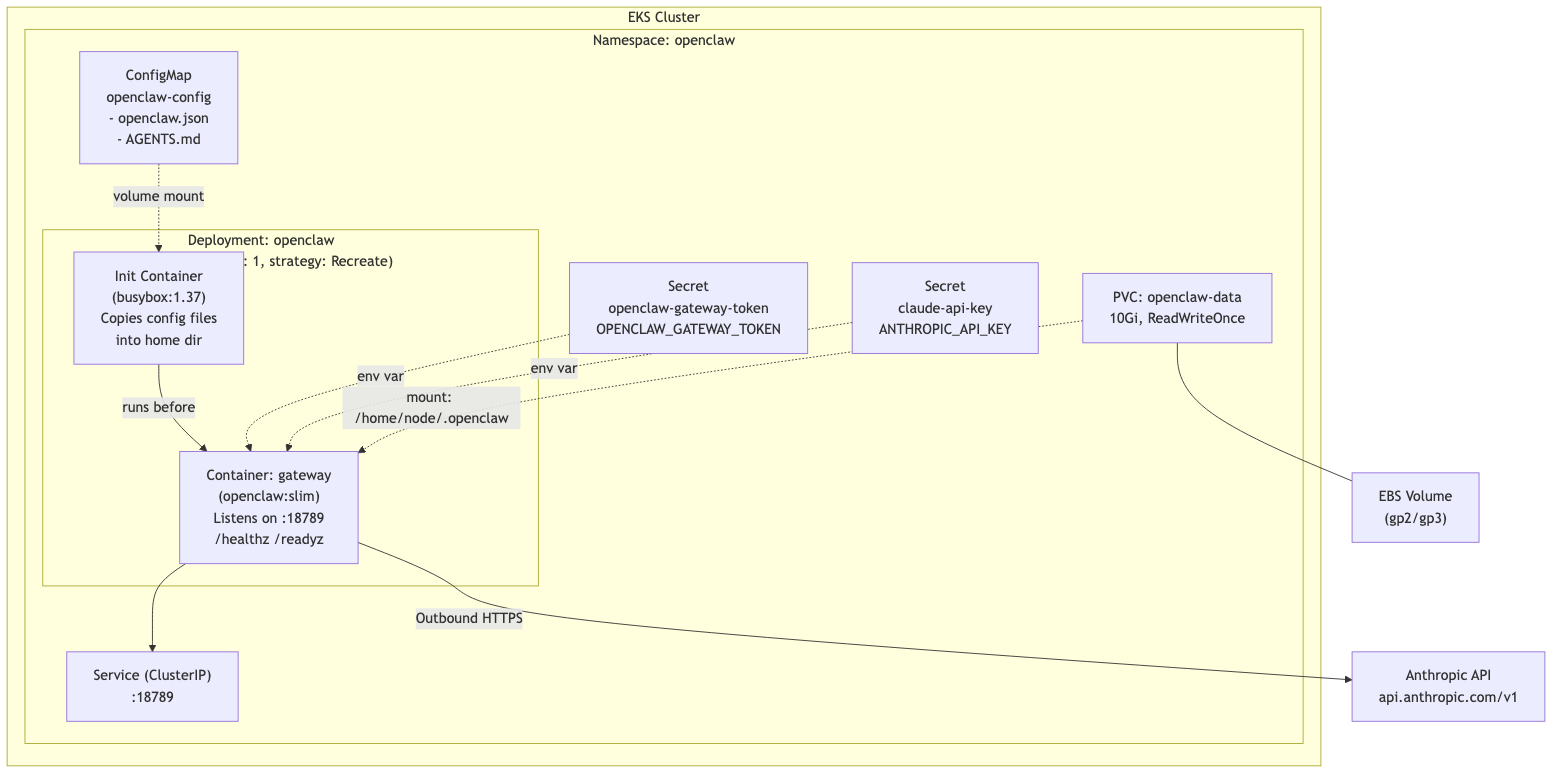
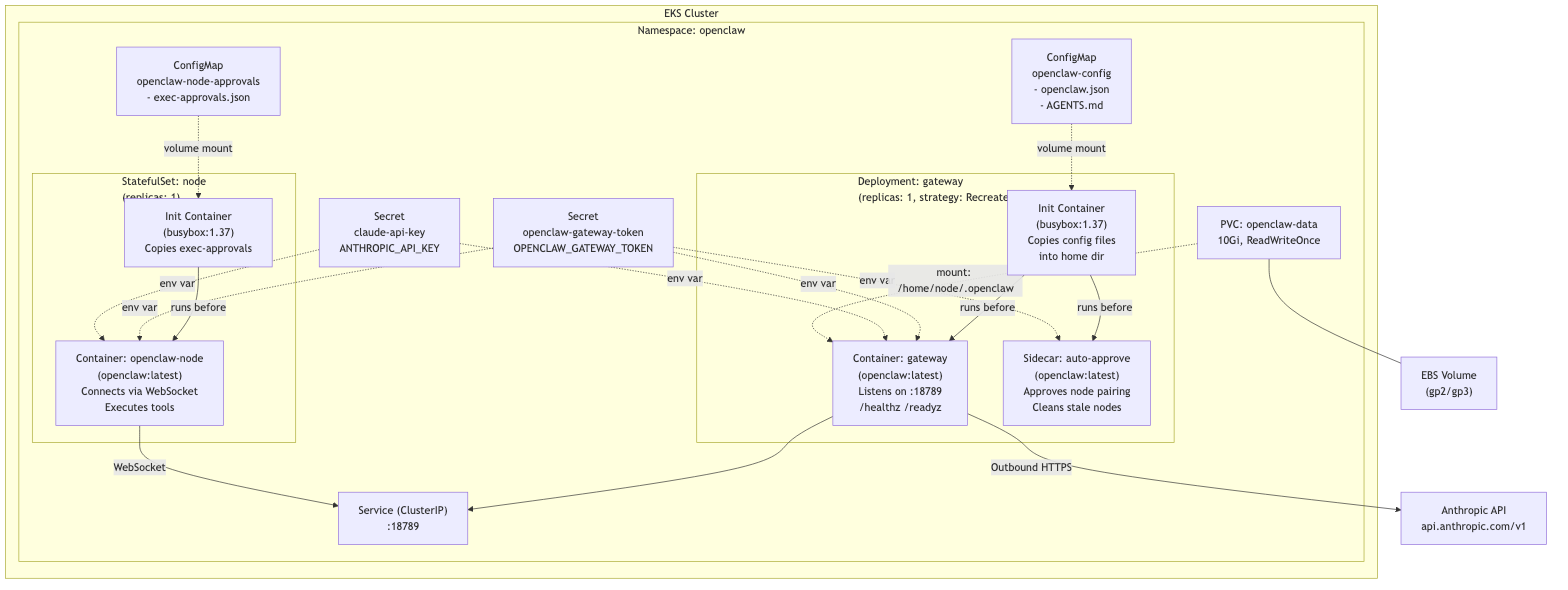
Add node deployment and auto-approve sidecar (#7) (#8)
Separate tool execution from the gateway by introducing a dedicated node
StatefulSet that connects via WebSocket. Add an auto-approve sidecar to
the gateway pod for hands-free node pairing. Rename gateway deployment
labels from app:openclaw to app:gateway and switch to the openclaw CLI.

diff --git a/aws/ARCHITECTURE.md b/aws/ARCHITECTURE.md
@@ -2,7 +2,7 @@
 
 ## Overview
 
-OpenClaw runs as a single-pod deployment inside a dedicated `openclaw` namespace on an EKS cluster. The pod runs a gateway process that serves an HTTP API on port 18789, backed by persistent storage for conversation history and assistant state. Configuration is injected via a ConfigMap, and secrets (API keys, gateway token) are provided as Kubernetes Secrets.
+OpenClaw runs inside a dedicated `openclaw` namespace on an EKS cluster. The architecture separates the **gateway** (API server, session management) from the **node** (tool execution). The gateway serves an HTTP API on port 18789, backed by persistent storage for conversation history and assistant state. Nodes connect to the gateway via WebSocket and execute tools on its behalf. An auto-approve sidecar on the gateway pod automatically approves node pairing requests, enabling hands-free node registration.
 
 ## Diagram
 
@@ -16,41 +16,61 @@ npx @mermaid-js/mermaid-cli -i aws/assets/architecture.mmd -o aws/assets/archite
 
 ## Components
 
-### Pod structure
+### Gateway pod (Deployment)
 
-The deployment runs a single pod with an init container and one main container:
+The gateway deployment runs a pod with an init container and two main containers:
 
-1. **Init container** (`busybox:1.37`) — copies `openclaw.json` and `AGENTS.md` from the ConfigMap into the persistent home directory at `/home/node/.openclaw/`. This runs once before the main container starts.
+1. **Init container** (`busybox:1.37`) — copies `openclaw.json` and `AGENTS.md` from the ConfigMap into the persistent home directory at `/home/node/.openclaw/`. This runs once before the main containers start.
 
-2. **Gateway container** (`ghcr.io/openclaw/openclaw:slim`) — the main OpenClaw process, running `node /app/dist/index.js gateway run`. It serves an HTTP API on port 18789 with token-based authentication.
+2. **Gateway container** (`ghcr.io/openclaw/openclaw:latest`) — the main OpenClaw process, running `openclaw gateway run`. It serves an HTTP API on port 18789 with token-based authentication. Tool execution is delegated to connected nodes via the `tools.exec.host: "node"` configuration.
+
+3. **Auto-approve sidecar** (`ghcr.io/openclaw/openclaw:latest`) — a lightweight sidecar that:
+   - On startup, cleans up stale disconnected nodes (disconnected for more than 10 minutes)
+   - Continuously polls for pending device pairing requests and auto-approves them (every 5 seconds)
+
+   This enables nodes to connect and start executing tools without manual approval.
 
 The deployment uses `strategy: Recreate` because the pod mounts a ReadWriteOnce PVC, which cannot be attached to multiple nodes simultaneously.
+
+### Node pod (StatefulSet)
+
+The node runs as a StatefulSet with a reconnect loop:
+
+1. **Init container** (`busybox:1.37`) — copies `exec-approvals.json` from the node approvals ConfigMap, granting the node full tool execution permissions without interactive approval prompts.
+
+2. **Node container** (`ghcr.io/openclaw/openclaw:latest`) — runs `openclaw node run` in a loop, connecting to the gateway at `openclaw.openclaw.svc.cluster.local:18789` via WebSocket. If disconnected, it retries every 10 seconds. Each node identifies itself using its pod hostname (`--display-name "$(hostname)"`).
+
+The node uses `emptyDir` for its home directory (not a PVC) — nodes are ephemeral workers with no persistent state. The StatefulSet provides stable pod identity for display names.
 
 ### ConfigMap: `openclaw-config`
 
 Contains two files:
 
-- **`openclaw.json`** — gateway configuration: bind address, auth mode (token), agent definitions, model provider settings (Anthropic), and feature flags (Slack, cron disabled).
+- **`openclaw.json`** — gateway configuration: bind address, auth mode (token), agent definitions, model provider settings (Anthropic), node support (`nodes.allowCommands`, `tools.exec.host`), and feature flags (Slack, cron disabled).
 - **`AGENTS.md`** — agent instructions file copied into the workspace.
+
+### ConfigMap: `openclaw-node-approvals`
+
+Contains `exec-approvals.json` — pre-approves all tool execution on the node with `security: "full"` and `ask: "off"`. This allows the node to execute tools autonomously without interactive consent prompts.
 
 ### Secrets
 
 Two secrets are referenced as environment variables:
 
-| Secret | Key | Purpose |
-|---|---|---|
-| `openclaw-gateway-token` | `OPENCLAW_GATEWAY_TOKEN` | Bearer token for authenticating to the gateway API |
-| `claude-api-key` | `ANTHROPIC_API_KEY` | API key for Anthropic's Claude models |
+| Secret | Key | Used by | Purpose |
+|---|---|---|---|
+| `openclaw-gateway-token` | `OPENCLAW_GATEWAY_TOKEN` | Gateway, auto-approve sidecar, node | Bearer token for authenticating to the gateway API |
+| `claude-api-key` | `ANTHROPIC_API_KEY` | Gateway, node | API key for Anthropic's Claude models |
 
 These can be created manually, or via ExternalSecrets, Vault, SOPS, etc. See `secrets.yaml.example`.
 
 ### Service
 
-A `ClusterIP` service exposes the gateway on port 18789 within the cluster. There is no Ingress configured — access is cluster-internal only. To expose externally, add an Ingress or LoadBalancer service.
+A `ClusterIP` service exposes the gateway on port 18789 within the cluster. The node connects to this service internally. There is no Ingress configured — external access is cluster-internal only. To expose externally, add an Ingress or LoadBalancer service.
 
 ### Storage
 
-A 10Gi `PersistentVolumeClaim` (`openclaw-data`) is mounted at `/home/node/.openclaw`. This path is OpenClaw's home directory — it's where the application stores its configuration, conversation history, assistant state, and workspace files. Without persistent storage, all of this would be lost every time the pod restarts.
+A 10Gi `PersistentVolumeClaim` (`openclaw-data`) is mounted at `/home/node/.openclaw` on the gateway pod. This path is OpenClaw's home directory — it's where the application stores its configuration, conversation history, assistant state, and workspace files. Without persistent storage, all of this would be lost every time the pod restarts.
 
 The mount path is `/home/node/.openclaw` specifically because the OpenClaw container image runs as the `node` user (UID 1000), and the application expects its data directory at `~/.openclaw`. The init container also writes configuration files (copied from the ConfigMap) into this directory before the gateway starts.
 
@@ -58,7 +78,7 @@ On EKS, the PVC defaults to a gp2/gp3 EBS volume.
 
 ## Security
 
-The pod follows a hardened security posture:
+All pods follow a hardened security posture:
 
 - Runs as non-root (UID/GID 1000)
 - Read-only root filesystem
@@ -71,6 +91,7 @@ The pod follows a hardened security posture:
 ## Networking
 
 - **Inbound**: ClusterIP service on port 18789 (cluster-internal only)
+- **Internal**: Node connects to gateway via WebSocket on the ClusterIP service
 - **Outbound**: HTTPS to `api.anthropic.com/v1` for Claude API calls; OTLP/HTTP to the configured metrics endpoint
 - No Ingress is configured by default — the gateway is not exposed to the internet
 
@@ -108,6 +129,7 @@ OTel is configured in `openclaw.json` under `diagnostics.otel`. Only metrics are
 
 ## Current Limitations
 
+- **Single node replica.** The node StatefulSet currently runs 1 replica. Scaling to multiple replicas is planned for improved availability.
 - **Local access requires port-forwarding.** The gateway service is ClusterIP-only, so accessing OpenClaw from a local machine is not straightforward. You need to port-forward the service to localhost first:
 
   ```bash
@@ -121,6 +143,6 @@ OTel is configured in `openclaw.json` under `diagnostics.otel`. Only metrics are
 | Service | Usage |
 |---|---|
 | **EKS** | Kubernetes control plane and worker nodes |
-| **EBS** | Persistent storage for the PVC (default gp2/gp3 storage class) |
-| **ECR** (optional) | Can mirror `ghcr.io/openclaw/openclaw:slim` for faster pulls |
+| **EBS** | Persistent storage for the gateway PVC (default gp2/gp3 storage class) |
+| **ECR** (optional) | Can mirror `ghcr.io/openclaw/openclaw:latest` for faster pulls |
 | **IAM** (optional) | IRSA (IAM Roles for Service Accounts) if using ExternalSecrets with AWS Secrets Manager |
